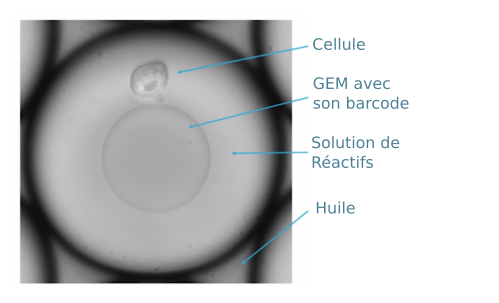
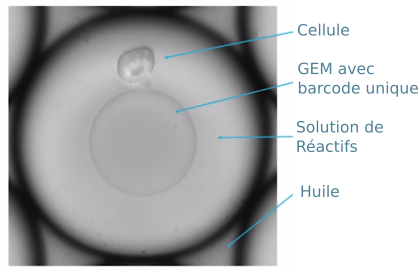
draft article 27

diff --git a/content/post27.md b/content/post27.md
@@ -1,4 +1,4 @@
-Title: Quantifier les ARNm d'une cellules
+Title: Quantifier les ARNm d'une cellule
 Slug: sc-rna-seq
 Date: 2017-08-28 16:23:49
 Tags: puce,sonde,adn,exome,mas,dmd
@@ -7,93 +7,99 @@ Author: Sacha Schutz
 Status: Draft
 SIDEBARIMAGE:../images/common/dnaquestion_banner.jpg
 
-Toutes les cellules de votre corps sont constitués du même génome. Vous obtiendrez toujours le même texte en séquençant l'ADN provenant d'un morceau d'estomac, de cerveau ou de peau.  
-Ce qui fait la difference, c'est l'expression des gènes ou "*transcriptome*". C'est à dire l'ensemble des ARNs messager transcript dans la cellule dont la traduction est responsable du phénotype cellulaire. Par exemple les cellules de votre rétine expriment différents gènes que celle de votre estomac. Leurs transcriptomes sont différents.  
-Une des méthodes pour évaluer le transcriptome est le séquençage des ARNm ou RNAseq. A partir d'un tissue, toutes les cellules sont lysée puis les ARNs messagers sont capturé (en général par leurs queues polyadénylé), convertit  en ADNc par une rétrotranscriptase, amplifié, puis séquencer. L'étape de bioinformatique consiste à aligner les reads sur les exons d'un génome de référence pour évaluer quels gènes sont exprimé. Le nombre d'ARNm pour un gène correspond au niveau d'expression de ce gène ou *abondance*.    
-Au final, en analysant différents tissues, on se retrouve avec une *matrice d'expression* ( voir figure ci-dessous).   
-C'est un peu plus compliqué que ça. Et je vous invite à jeter un oeil sur l'article de bioinfo-fr à ce sujet.    
+Toutes les cellules de votre corps sont constituées du même génome. Vous obtiendrez toujours le même texte en séquençant l'ADN provenant d'un morceau d'estomac, de cerveau ou de peau.  
+Ce qui fait la différence, c'est l'expression des gènes ou « *[transcriptome](https://fr.wikipedia.org/wiki/Transcriptome)* » . C'est à dire l'ensemble des [ARNs messagers (ARNm)](https://fr.wikipedia.org/wiki/Acide_ribonucl%C3%A9ique_messager) transcrits dans la cellule dont la traduction est responsable du [phénotype cellulaire](https://fr.wikipedia.org/wiki/Ph%C3%A9notype_cellulaire). Par exemple, les cellules de votre rétine expriment différents gènes de votre estomac. Leurs transcriptomes sont différents.  
+Une des méthodes pour évaluer le transcriptome est le séquençage des ARNm ou [RNA-seq](https://fr.wikipedia.org/wiki/RNA-Seq). À partir d'un tissu, toutes les cellules sont lysées puis les ARNs messagers sont capturés (en général par leurs [queues polyadénylées](https://fr.wikipedia.org/wiki/Polyad%C3%A9nylation)). Ils sont ensuite convertis  en [ADN complémentaire](https://fr.wikipedia.org/wiki/ADN_compl%C3%A9mentaire) (ADNc) par une [rétrotranscriptase](https://fr.wikipedia.org/wiki/Transcriptase_inverse), amplifiés, puis séquencés. L'étape bio-informatique consiste à aligner les [reads](http://dridk.me/ngs.html) sur les [exons](https://fr.wikipedia.org/wiki/Exon) d'un génome de référence pour évaluer quels gènes sont exprimés. Le nombre d'ARNm séquencé d'un gène correspond à son niveau d'expression ou « *abondance »*.    
+Finalement, en analysant différents tissus, on obtient  une *matrice d'expression* ( voir tableau ci-dessous).   
+Pour plus de détails sur l'analyse bio-informatique,  je vous invite à jeter un oeil sur l'[article de bioinfo-fr](https://bioinfo-fr.net/lanalyse-de-donnees-rna-seq-mode-demploi) traitant de ce sujet.    
 
 <div class="figure">
     <img src="../images/post27/rnaseq-overview.png" /> 
-    <div class="legend">Schéma général de la technologie RNAseq. Le séquençage est réalisé sur deux échantillons (tumeur et normal). Les ARNs sont capturé grâce leurs queues polyA, sont converti en ADNc puis séquencer. Les reads sont alignés sur un génome de référence afin de mesurer l'expression de chaque gène. Cette expression est proportionnelle aux nombre d'ARN s'allignant sur un gène donné </br>Source: Wikipedia</div>
+    <div class="legend">Schéma général de la technologie RNAseq. Dans cet exemple, le séquençage est réalisé sur deux échantillons (tumeur et normal). Les ARNs sont capturés grâce leurs queues polyA, sont converti en ADNc puis séquencer. Les reads sont alignés sur un génome de référence afin de mesurer l'expression de chaque gène. Cette expression est proportionnelle aux nombres d'ARN s'alignant sur un gène donné </br>Source: Wikipedia</div>
 </div>
 
 </br>
    
 <div class="figure">
     <img src="../images/post27/expression-matrix.png" /> 
-    <div class="legend">Exemple d'une matrice d'expression comparant deux tissues. L'expression des gènes dans le tissue normal est différent de celui du tissue cancereux</div>
+    <div class="legend">Exemple d'une matrice d'expression comparant deux tissues. L'expression des gènes dans le tissue normal est différent de celui du tissue cancéreux</div>
 </div>
 
 
-## Résolution cellulaire
+## ScRNA-seq: Nouvelle approche plus résolutive
 
-Le defaut de cette technique est qu'elle mesure l'expression d'un tissue et pas l'expression d'une cellule. En effet, dans un morceau de cerveau, il y aura différent type cellulaire (neurone, astrocytes, oligodentrocytes ...) avec des profils d'expression differente. La technique RNA-seq traditionnelle vous donnera seulement le niveau d'expression de cette ensemble.   
-Aujourd'hui, une autre méthode permet de séquencer le transcriptome d'une seul cellule. C'est ce qu'on appelle du Single Cell RNA Seq (ScRNASeq). 
-L'idée est de créer une librarie (Ensemble des fragments d'ADN déstiné au séquençage) ou chaque ARNm se voit greffer une séquence identifiant sa cellule d'origine (barcode). On peut alors après le séquençage, regrouper les reads entre eux grâce à leurs barcode et obtenir la matrice d'expression par cellules.   
-Comment étiqueter chaque fragment d'ADN à sa cellule d'origine ? C'est ce qu'on va voir avec la méthode de microfluidique de 10xGenomics.
+Le défaut du RNA-seq est qu'elle mesure l'expression d'un tissu et pas l'expression d'une cellule. En effet, dans un morceau de cerveau, il y aura différent type cellulaire (neurone, [astrocytes](https://fr.wikipedia.org/wiki/Astrocyte), [oligodendrocytes](https://fr.wikipedia.org/wiki/Oligodendrocyte) ...) avec des profils d'expression différente. La technique RNA-seq traditionnelle vous informera seulement du niveau d'expression de cet ensemble.   
+Aujourd'hui, une autre méthode permet de séquencer le transcriptome d'une seule cellule. C'est ce qu'on appelle du [Single Cell RNA Seq  (ScRNA-Seq)](https://en.wikipedia.org/wiki/Single-cell_transcriptomics). 
+L'idée est de créer une librarie (Ensemble des fragments d'ADN destiné au séquençage) ou chaque ARNm se voit greffer une séquence identifiant sa cellule d'origine ([barcode](https://fr.wikipedia.org/wiki/Barcoding_mol%C3%A9culaire)). On peut alors après séquençage, regrouper les reads entre eux grâce à leurs barcodes et obtenir une matrice d'expression par cellules et par gènes.   
+Comment étiqueter chaque fragment d'ADN à sa cellule d'origine ? C'est ce qu'on va voir tout de suite avec la méthode de [microfluidique](https://fr.wikipedia.org/wiki/Microfluidique) de [10xGenomics](https://www.10xgenomics.com/).
 
-## Exemple avec 10xGenomics
-La première étape consiste à isoler chaque cellule dans un goutelette d'huile contenant des réactifs de PCR ( polymérase, oligonucléotide...) et une bille ou GEM (Gel bead in EMulsion).
+## Isoler les cellules en microfluidique
+La microfluidique est une technologie manipulant des fluides dans des mini-tuyaux de l'ordre du micromètre. 
+Grâce à ça, on peut isoler chaque cellule dans une gouttelette d'huile contenant des réactifs ( polymérase, oligonucléotide, Retrotranscriptase...) ainsi qu'une bille particulière appellée GEM (Gel bead in EMulsion).
 
 <div class="figure">
     <img src="../images/post27/GEM.png" /> 
-    <div class="legend">Photo d'une GEM (Gel bead in EMulsion) </br> Source: <a href="https://www.10xgenomics.com/single-cell/">10xGenomics</a>
+    <div class="legend">microgoutelette avec une cellule et une GEM (Gel bead in EMulsion) </br> Source: <a href="https://www.10xgenomics.com/single-cell/">10xGenomics</a>
     </div>
 </div>
 
-Pour former cette goutelette, ils ont recourt à la microfluidique qui consiste à faire passer successivement dans des microcapillaires les cellules, les billes et l'huile. 
+Pour former cette gouttelette, ils font passer successivement les cellules, les billes et l'huile dans un circuit de microcapillaires: ( Voir ci-dessous).
 
 <div class="figure">
     <img src="../images/post27/gem-formation.gif" /> 
-    <div class="legend">Photo d'une goutelette d'huile contenant la GEM et la cellule.</br> Source: <a href="https://www.10xgenomics.com/single-cell/">10xGenomics</a> </div>
+    <div class="legend">Annimation montrant la formation des microgoutelettes</br> Source: <a href="https://www.10xgenomics.com/single-cell/">10xGenomics</a> </div>
 </div>
 
 <div class="figure">
     <img src="../images/post27/gem-formation2.gif" /> 
-    <div class="legend">Photo d'une GEM. </br> Source: https://www.youtube.com/watch?v=zQoHc6PtIFk </div>
+    <div class="legend">Formation des microgoutellettes en vidéo </br> Source: <a href="https://www.youtube.com/watch?v=zQoHc6PtIFk">Dolomite Microfluidics</a> </div>
 </div>
 
-
-Chaque bille est recouverte de séquences adaptatrice unique contenant un barcode, un UMI et la séquence complémentaire à la queue PolyA (PolyT) des ARN messagers.    
-- Le barcode est l'identifiant unique à la bille. 10xGenomics propose dans ses kits des billes avec 750 000 barcodes environ.       
-- L'UMI (Unique Molecular Identifiers) est une courte séquence aléatoire unique  à chaque fragment entourant la bille. Il y a donc plusieurs UMI par bille. Cette identifiant est utilisé pour éviter les biais d'amplifications. Si une séquence est malencontreusement trop amplifier, Elle sera detecté car un même UMI sera trop representé.
-- Une séquence de plusieurs nucléotide T ou va venir se fixer les ARNs par l'intermediaire de leurs queue polyA.
+## Chaque cellule a son barcode unique
+Chaque bille est recouverte de séquences adaptatrice uniques contenant un barcode, un UMI et la séquence complémentaire à la queue PolyA (PolyT) des ARN messagers.    
+- Le barcode est l'identifiant unique à la bille, et donc unique à la cellule. 10xGenomics propose dans ses kits des billes avec 750 000 barcodes environ.       
+- [L'UMI (Unique Molecular Identifiers)](https://en.wikipedia.org/wiki/Unique_molecular_identifier)  est une courte séquence aléatoire unique  à chaque fragment entourant la bille. Il y a donc plusieurs UMI par bille. Cet identifiant est utilisé pour éviter les biais d'amplifications. Si une séquence est malencontreusement trop amplifiée dans une goutte, elle sera détectée, car le même UMI sera représenté plusieurs fois.    
+- La séquence polyT est l'extremité ou va venir se fixer les ARNs par complémentarité par leurs queues polyA.
 
 <div class="figure">
     <img src="../images/post27/gem-zoom.png" /> 
-    <div class="legend">Photo d'une GEM </br> Source: <a href="https://www.10xgenomics.com/single-cell/">10xGenomics</a> </div>
+    <div class="legend">Zoom sur une GEM et les séquences la recouvrant</br> Source: <a href="https://www.10xgenomics.com/single-cell/">10xGenomics</a> </div>
 </div>
 
+## Création d'une librarie et séquençage 
+Pour finir, il ne reste plus qu'à créer la librarie pour le séquençage. Tous les fragments d'ADNs identifié par leurs barcodes sont pooler ensemble après lyses des goutelettes d'huiles. Les adaptateurs de séquençages ([Illumina](https://www.youtube.com/watch?v=fCd6B5HRaZ8&t=3s)) sont ajouté afin d'obtenir la libraire.   
+Après le séquençage et l'allignement, il suffira de regrouper les reads provenant d'une même cellule en comparant leurs barcodes.
 
-## Résulats 
-Au final, on obtient la matrice d'expression par gènes et par cellules.
+## Des jolies graphiques comme résultat
+On obtient alors la matrice d'expression par gènes et par cellules:
 
 <div class="figure">
     <img src="../images/post27/expression-matrix-cell.png" /> 
-    <div class="legend">Photo d'une GEM </div>
+    <div class="legend">Exemple d'une matrice d'expression en Single Cell RNA Seq. En réalité, il y a des milliers de cellules (autant que de barcode) et au moins 23 000 gènes (pour l'homme).</div>
 </div>
 
-On peut alors representer ce tableau dans un graphique en réalisant une analyse en composante principale. (10x genomics utilise une t-SNE). 
-Chaque point correspond à une cellule. Plus les cellules sont proche sur le graphique, plus leurs expressions génétiques est similaires. 
+On peut alors représenter ce tableau dans un graphique en réalisant une [analyse en composante principale](https://fr.wikipedia.org/wiki/Analyse_en_composantes_principales). (10x genomics utilise une [t-SNE](https://fr.wikipedia.org/wiki/Algorithme_t-SNE)). 
+Chaque point correspond à une cellule. Plus les cellules sont proches sur le graphique, plus leurs expressions génétiques sont similaires. 
 
 
 <div class="figure">
     <img src="../images/post27/blood_example.png" /> 
-    <div class="legend">Photo d'une GEM </div>
+    <div class="legend">Profil d'expression obtenu à partir des cellules du sang (2,700 cellules mononuclées du sang périphérique <a href="https://fr.wikipedia.org/wiki/Cellule_mononucl%C3%A9%C3%A9e_sanguine_p%C3%A9riph%C3%A9rique)))">PBMC</a></br> Source: <a href="http://satijalab.org/seurat/get_started_v1_4.html">http://satijalab.org/seurat/get_started_v1_4.html</a></div>
 </div>
 
-Plus jolie, cette vidéo montre le profil d'expression des cellule du cerveau dans une répresentation 3D. https://www.10xgenomics.com/single-cell/?wvideo=z54e2lemhd
+Plus jolie, cette vidéo montre le profil d'expression des cellules du cerveau dans une repère à 3 axes.
 
+<p align="center">
+<a href="https://www.10xgenomics.com/single-cell/?wvideo=z54e2lemhd"><img src="../images/post27/brain10x.png"/></a>
+</p>
 
-## What next ? 
-A l'heure ou j'écrivais cette article, Je suis tombé sur un article décrivant la technique DropNcSeq. Une méthode similaire à ce que je viens de décrire, mais concernant les noyaux des cellules et pas la cellule entière.    
-C'est beau la technology :D 
+## What next ? 
+À l'heure ou j'écrivais cet article, je suis tombé sur un article décrivant la technique [DropNc-Seq](http://www.genengnews.com/gen-news-highlights/single-nucleus-rna-seq-merges-with-microfluidics/81254868). Une méthode similiaire à ce que je viens de décrire, mais ce sont les noyaux qu'on isole et pas les cellules. On obtient donc le transcriptome nucléaire.     
+Bref, c'est chouette hein ? 
 
-
-https://www.youtube.com/watch?v=zQoHc6PtIFk
 
 ## Références
 * [RNASeq sur bioinfo-fr](https://bioinfo-fr.net/lanalyse-de-donnees-rna-seq-mode-demploi)
 * [10xGenomics](https://www.10xgenomics.com/single-cell/)
-
+* [Dolomite Microfluids](https://www.youtube.com/watch?v=zQoHc6PtIFk)
+* [Massively parallel digital transcriptional profiling of single cells](https://www.ncbi.nlm.nih.gov/pubmed/28091601)
